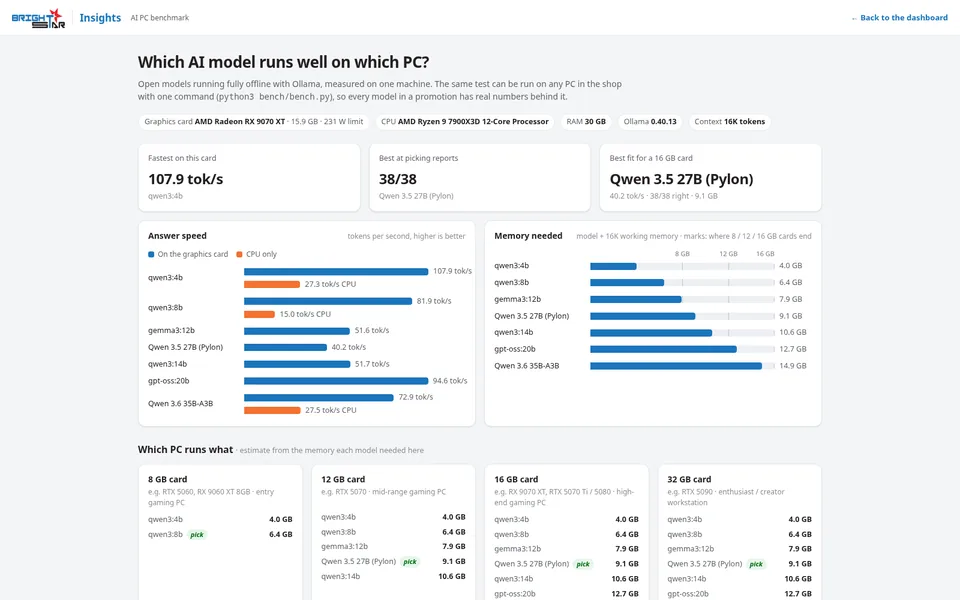
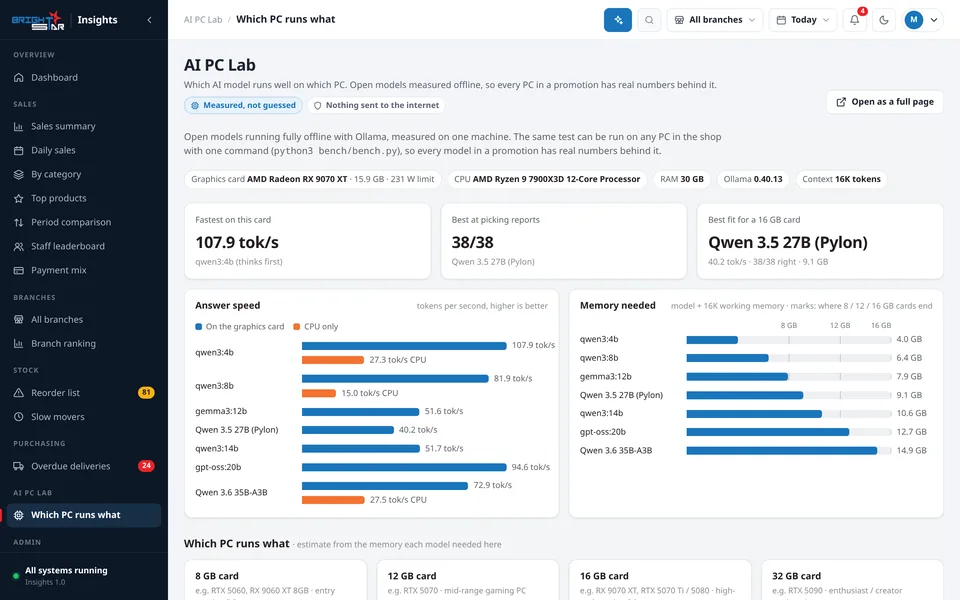
Brightstar page: new screenshots and text for the redesigned app
Screens now show the current UI (Ask Insights panel, role homes, Branches,
report pages, Reorder list, Overdue deliveries, AI PC Lab, sign-in, dark
mode, phone). Features, stack (Odoo ERP) and FAQ updated to match; the
portfolio card captions follow.

Claude-Session: https://claude.ai/code/session_019hFk9tDYcQSH82D6WqA6Ft

diff --git a/retail/index.html b/retail/index.html
@@ -343,7 +343,7 @@ dialog#lb button{position:fixed;top:14px;right:14px;width:44px;height:44px;borde
   <div class="htext">
    <span class="eyebrow">Unofficial mock demo · AI for retail</span>
    <h1>Ask the shop’s numbers, <em>in plain words</em>.</h1>
-   <p class="lead">Brightstar Insights is a mock demo I built to show how an AI assistant could work for a multi-branch IT retailer like Brightstar Computer. Owners, branch managers and buyers ask about sales, stock and purchasing in English or Malay, and get a clear answer in about a second, with the AI running on in-house hardware.</p>
+   <p class="lead">Brightstar Insights is a mock demo I built to show how an AI assistant could work for a multi-branch IT retailer like Brightstar Computer. Owners, branch managers and buyers each get their own dashboard, report pages and work lists, and can ask about sales, stock and purchasing in English or Malay. Answers come in about a second, from a real ERP, with the AI running on in-house hardware.</p>
    <div class="ctas">
     <a class="btn pri" href="https://archlinux.taila38d1a.ts.net:8443/retail/try"><svg class="ico" style="fill:currentColor;stroke:none"><use href="#i-play"/></svg>Try the live demo</a>
     <a class="btn" href="https://archlinux.taila38d1a.ts.net:8443/retail/login">Open the full app as a guest<svg class="ico"><use href="#i-arrow"/></svg></a>
@@ -359,10 +359,10 @@ dialog#lb button{position:fixed;top:14px;right:14px;width:44px;height:44px;borde
   </div>
   <div class="stage">
    <div class="frame"><div class="bar"><i></i><i></i><i></i><b>Brightstar Insights · mock data</b></div>
-    <img src="../assets/img/ri-dashboard.webp" width="1600" height="1000" alt="Brightstar Insights dashboard: today’s sales against the same time yesterday, a 30-day sales chart, top branches, low stock and late deliveries">
+    <img src="../assets/img/ri-dashboard.webp" width="1600" height="1000" alt="Brightstar Insights dashboard: a sidebar by job, quick links to branches, the reorder list, overdue deliveries and the AI PC Lab, an ask bar, today’s sales tiles, a 30-day chart and branches today">
    </div>
-   <div class="float"><img src="../assets/img/ri-phone.webp" width="780" height="1688" alt="A question answered on a phone" loading="lazy"></div>
-   <img class="phone-hero" src="../assets/img/ri-phone.webp" width="780" height="1688" alt="Brightstar Insights answering a question on a phone" loading="lazy">
+   <div class="float"><img src="../assets/img/ri-phone.webp" width="780" height="1688" alt="A question in Malay answered on a phone" loading="lazy"></div>
+   <img class="phone-hero" src="../assets/img/ri-phone.webp" width="780" height="1688" alt="Brightstar Insights answering a question in Malay on a phone" loading="lazy">
   </div>
  </div>
 </section>
@@ -380,23 +380,26 @@ dialog#lb button{position:fixed;top:14px;right:14px;width:44px;height:44px;borde
 
 <section id="features" class="alt">
  <div class="wrap">
-  <div class="shead rv"><span class="eyebrow">What it does</span><h2>One place for the shop’s numbers.</h2><p class="lead">Built the way a shop would use it: a dashboard first, questions when you need them, and a daily summary that arrives by itself.</p></div>
+  <div class="shead rv"><span class="eyebrow">What it does</span><h2>One place for the shop’s numbers.</h2><p class="lead">Built the way a shop would use it: a home page and work lists for each job, report pages for the detail, the AI one shortcut away, and a daily summary that arrives by itself.</p></div>
   <div class="card feat wide rv">
     <div style="display:grid;gap:14px">
      <span class="tag"><svg class="ico"><use href="#i-chat"/></svg></span>
-     <h3 style="font:600 28px/1.2 var(--serif)">Ask, and see how it was answered</h3>
-     <p>Type a question in English or Malay. Each answer shows which report was used, a one-line summary, a chart and the full table.</p>
-     <ul><li>About a second per answer on a gaming graphics card</li><li>Questions outside sales, stock and purchasing are politely refused</li><li>Download any answer as CSV or a report page</li></ul>
+     <h3 style="font:600 28px/1.2 var(--serif)">Ask Insights, from any page</h3>
+     <p>Open the side panel from the top bar or with Ctrl+J and type in English or Malay. Each answer shows which tested report was used, a one-line summary and a chart, and can open the full report with the same filters.</p>
+     <ul><li>About a second per answer on a gaming graphics card</li><li>Questions outside sales, stock and purchasing are politely refused</li><li>“How it was answered” shows the report and the query behind it</li></ul>
     </div>
-    <div class="frame"><img src="../assets/img/ri-answer-960.webp" data-full="../assets/img/ri-answer.webp" width="960" height="600" alt="An answer card: the question, the report used, a summary line and a bar chart by branch" loading="lazy"></div>
+    <div class="frame"><img src="../assets/img/ri-answer-960.webp" data-full="../assets/img/ri-answer.webp" width="960" height="600" alt="The Ask Insights side panel open over the dashboard: which branch sold the most RTX cards last week, answered with the branch ranking report and a bar chart" loading="lazy"></div>
   </div>
   <div class="feats swipe-m">
-   <div class="card feat rv"><span class="badge b-info">Dashboard</span><h3>Today at a glance</h3><p>Sales so far today against the same time yesterday, this week against last week, a 30-day trend and the top branches.</p></div>
-   <div class="card feat rv"><span class="badge b-info">Dashboard</span><h3>Needs attention</h3><p>Items below their reorder level, late supplier deliveries and the money tied up in slow stock.</p></div>
+   <div class="card feat rv"><span class="badge b-info">Home</span><h3>A home page for each job</h3><p>Management, branch managers and purchasing each start on their own home: sales today against the same time yesterday, this week against last week, a 30-day trend and shortcuts with live counts.</p></div>
+   <div class="card feat rv"><span class="badge b-info">Reports</span><h3>11 report pages</h3><p>Filter by dates, branch, category or product, sort and search the table, and export to CSV or a printable page. The same fixed reports the AI uses.</p></div>
+   <div class="card feat rv"><span class="badge b-info">Branches</span><h3>Every shop side by side</h3><p>Revenue, change, margin and a 14-day trend per branch, with stock and late-delivery flags and a page of its own for each shop.</p></div>
+   <div class="card feat rv"><span class="badge b-info">Work lists</span><h3>Reorder and late deliveries</h3><p>Items below their reorder level grouped by branch, and overdue purchase orders grouped by supplier, sorted by the money waiting.</p></div>
+   <div class="card feat rv"><span class="badge b-info">Search</span><h3>Find anything with Ctrl+K</h3><p>Jump to a page, a branch or a product, repeat a recent question, and see low stock and late deliveries in the alerts bell.</p></div>
    <div class="card feat rv"><span class="badge b-good">Roles</span><h3>The right view for each person</h3><p>Management sees every branch. A branch manager only sees their own branch, even when asking in plain language. Purchasing gets a stock-first view.</p></div>
    <div class="card feat rv"><span class="badge b-good">Automation</span><h3>A daily report, no AI needed</h3><p>Every morning a summary of yesterday arrives on Telegram or WhatsApp, with the full report attached. Approved people can also ask questions from their phone.</p></div>
    <div class="card feat rv"><span class="badge b-bad">Control</span><h3>Every request on record</h3><p>Sign-in, account lock-out after repeated wrong passwords, and an audit log of who asked what and which report answered.</p></div>
-   <div class="card feat rv"><span class="badge b-info">Hardware</span><h3>Which AI runs on which PC</h3><p>A benchmark page that measures open AI models on a given machine: speed, memory and how often each answers correctly.</p></div>
+   <div class="card feat rv"><span class="badge b-info">AI PC Lab</span><h3>Which AI runs on which PC</h3><p>Open AI models measured on real hardware for speed, memory and accuracy, with a guide to what fits an 8, 12, 16 or 32 GB graphics card.</p></div>
   </div>
  </div>
 </section>
@@ -405,26 +408,32 @@ dialog#lb button{position:fixed;top:14px;right:14px;width:44px;height:44px;borde
  <div class="wrap">
   <div class="shead rv"><span class="eyebrow">See it</span><h2>The real screens.</h2><p class="lead">From my working copy, with invented data. Click a picture to enlarge it.</p></div>
   <div class="tabs" role="tablist" aria-label="Screens">
-   <button class="tab" role="tab" aria-selected="true" aria-controls="s1" id="t1">Ask a question</button>
+   <button class="tab" role="tab" aria-selected="true" aria-controls="s1" id="t1">Ask</button>
    <button class="tab" role="tab" aria-selected="false" aria-controls="s2" id="t2">Dashboard</button>
-   <button class="tab" role="tab" aria-selected="false" aria-controls="s3" id="t3">Branch manager</button>
-   <button class="tab" role="tab" aria-selected="false" aria-controls="s4" id="t4">Week on week</button>
-   <button class="tab" role="tab" aria-selected="false" aria-controls="s5" id="t5">Model benchmark</button>
-   <button class="tab" role="tab" aria-selected="false" aria-controls="s6" id="t6">Sign-in</button>
-   <button class="tab" role="tab" aria-selected="false" aria-controls="s7" id="t7">Dark mode</button>
+   <button class="tab" role="tab" aria-selected="false" aria-controls="s3" id="t3">Branches</button>
+   <button class="tab" role="tab" aria-selected="false" aria-controls="s4" id="t4">Reports</button>
+   <button class="tab" role="tab" aria-selected="false" aria-controls="s5" id="t5">Reorder</button>
+   <button class="tab" role="tab" aria-selected="false" aria-controls="s6" id="t6">Late orders</button>
+   <button class="tab" role="tab" aria-selected="false" aria-controls="s7" id="t7">Manager</button>
+   <button class="tab" role="tab" aria-selected="false" aria-controls="s8" id="t8">AI PC Lab</button>
+   <button class="tab" role="tab" aria-selected="false" aria-controls="s9" id="t9">Sign-in</button>
+   <button class="tab" role="tab" aria-selected="false" aria-controls="s10" id="t10">Dark mode</button>
   </div>
-  <div class="shot" role="tabpanel" id="s1" aria-labelledby="t1"><div class="frame"><img src="../assets/img/ri-answer-960.webp" data-full="../assets/img/ri-answer.webp" width="960" height="600" alt="Answer to which branch sold the most RTX cards last week, with the report used and a chart" loading="lazy"></div><div class="cap"><h3>A question, answered</h3><p>A summary line taken from the numbers, then the chart and table.</p></div></div>
-  <div class="shot" role="tabpanel" id="s2" aria-labelledby="t2" hidden><div class="frame"><img src="../assets/img/ri-dashboard-960.webp" data-full="../assets/img/ri-dashboard.webp" width="960" height="600" alt="Dashboard with today’s sales, a 30-day chart, top branches, low stock and late deliveries" loading="lazy"></div><div class="cap"><h3>Today at a glance</h3><p>What management sees first, with no AI involved.</p></div></div>
-  <div class="shot" role="tabpanel" id="s3" aria-labelledby="t3" hidden><div class="frame"><img src="../assets/img/ri-branch-960.webp" data-full="../assets/img/ri-branch.webp" width="960" height="600" alt="Branch manager’s dashboard limited to one branch" loading="lazy"></div><div class="cap"><h3>Only your branch</h3><p>A branch manager’s view: every number limited to their own shop.</p></div></div>
-  <div class="shot" role="tabpanel" id="s4" aria-labelledby="t4" hidden><div class="frame"><img src="../assets/img/ri-summary-960.webp" data-full="../assets/img/ri-summary.webp" width="960" height="600" alt="This week against the same days last week for one branch" loading="lazy"></div><div class="cap"><h3>Fair comparisons</h3><p>This week is compared with the same days last week, up to the same time of day.</p></div></div>
-  <div class="shot" role="tabpanel" id="s5" aria-labelledby="t5" hidden><div class="frame"><img src="../assets/img/ri-bench-960.webp" data-full="../assets/img/ri-bench.webp" width="960" height="600" alt="Benchmark page comparing AI models by speed, memory and accuracy" loading="lazy"></div><div class="cap"><h3>Which model for which PC</h3><p>Seven open models measured on one graphics card, so it’s clear what each machine can run.</p></div></div>
-  <div class="shot" role="tabpanel" id="s6" aria-labelledby="t6" hidden><div class="frame"><img src="../assets/img/ri-login-960.webp" data-full="../assets/img/ri-login.webp" width="960" height="600" alt="Sign-in page" loading="lazy"></div><div class="cap"><h3>Signed in, by role</h3><p>Company accounts, with a lock-out after repeated wrong passwords.</p></div></div>
-  <div class="shot" role="tabpanel" id="s7" aria-labelledby="t7" hidden><div class="frame"><img src="../assets/img/ri-dark-960.webp" data-full="../assets/img/ri-dark.webp" width="960" height="600" alt="Dashboard in dark mode" loading="lazy"></div><div class="cap"><h3>Light or dark</h3><p>Follows the computer’s setting, or switch with one click.</p></div></div>
+  <div class="shot" role="tabpanel" id="s1" aria-labelledby="t1"><div class="frame"><img src="../assets/img/ri-answer-960.webp" data-full="../assets/img/ri-answer.webp" width="960" height="600" alt="The Ask Insights side panel over the dashboard: which branch sold the most RTX cards last week, answered with the branch ranking report" loading="lazy"></div><div class="cap"><h3>Ask from any page</h3><p>The side panel answers in about a second and says which tested report it used.</p></div></div>
+  <div class="shot" role="tabpanel" id="s2" aria-labelledby="t2" hidden><div class="frame"><img src="../assets/img/ri-dashboard-960.webp" data-full="../assets/img/ri-dashboard.webp" width="960" height="600" alt="Management dashboard: quick links, an ask bar, today’s sales tiles, a 30-day chart and branches today" loading="lazy"></div><div class="cap"><h3>Today at a glance</h3><p>Management’s home page, with no AI involved.</p></div></div>
+  <div class="shot" role="tabpanel" id="s3" aria-labelledby="t3" hidden><div class="frame"><img src="../assets/img/ri-branches-960.webp" data-full="../assets/img/ri-branches.webp" width="960" height="600" alt="All branches as cards with revenue, change, margin, a 14-day trend and stock and delivery flags" loading="lazy"></div><div class="cap"><h3>Every shop side by side</h3><p>Sort by revenue, change or code, then open any branch.</p></div></div>
+  <div class="shot" role="tabpanel" id="s4" aria-labelledby="t4" hidden><div class="frame"><img src="../assets/img/ri-report-960.webp" data-full="../assets/img/ri-report.webp" width="960" height="600" alt="Top products report page with filters, summary tiles, a chart and the table" loading="lazy"></div><div class="cap"><h3>A full report page</h3><p>Filters, a summary line, a chart and the table, with CSV or printable export.</p></div></div>
+  <div class="shot" role="tabpanel" id="s5" aria-labelledby="t5" hidden><div class="frame"><img src="../assets/img/ri-reorder-960.webp" data-full="../assets/img/ri-reorder.webp" width="960" height="600" alt="Reorder list grouped by branch: items out of stock or below their reorder level" loading="lazy"></div><div class="cap"><h3>Reorder list</h3><p>Out of stock and running low, grouped by branch, with what’s already on order.</p></div></div>
+  <div class="shot" role="tabpanel" id="s6" aria-labelledby="t6" hidden><div class="frame"><img src="../assets/img/ri-late-960.webp" data-full="../assets/img/ri-late.webp" width="960" height="600" alt="Overdue deliveries grouped by supplier, with days late and the money still to come" loading="lazy"></div><div class="cap"><h3>Overdue deliveries</h3><p>Late purchase orders grouped by supplier, biggest money first.</p></div></div>
+  <div class="shot" role="tabpanel" id="s7" aria-labelledby="t7" hidden><div class="frame"><img src="../assets/img/ri-branch-960.webp" data-full="../assets/img/ri-branch.webp" width="960" height="600" alt="Branch manager’s home limited to one branch" loading="lazy"></div><div class="cap"><h3>Only your branch</h3><p>A branch manager’s home: every number limited to their own shop.</p></div></div>
+  <div class="shot" role="tabpanel" id="s8" aria-labelledby="t8" hidden><div class="frame"><img src="../assets/img/ri-bench-960.webp" data-full="../assets/img/ri-bench.webp" width="960" height="600" alt="AI PC Lab comparing open AI models by speed, memory and accuracy" loading="lazy"></div><div class="cap"><h3>Which model for which PC</h3><p>Open models measured on one graphics card, with a guide by card size.</p></div></div>
+  <div class="shot" role="tabpanel" id="s9" aria-labelledby="t9" hidden><div class="frame"><img src="../assets/img/ri-login-960.webp" data-full="../assets/img/ri-login.webp" width="960" height="600" alt="Sign-in page with a short pitch panel" loading="lazy"></div><div class="cap"><h3>Signed in, by role</h3><p>Company accounts, with a lock-out after repeated wrong passwords.</p></div></div>
+  <div class="shot" role="tabpanel" id="s10" aria-labelledby="t10" hidden><div class="frame"><img src="../assets/img/ri-dark-960.webp" data-full="../assets/img/ri-dark.webp" width="960" height="600" alt="Branches page in dark mode" loading="lazy"></div><div class="cap"><h3>Light or dark</h3><p>Follows the computer’s setting, or switch with one click.</p></div></div>
 
   <div class="shead rv" style="margin:72px 0 28px"><h3 style="font:600 26px var(--serif)">On the phone, too.</h3></div>
   <div class="phones swipe-m rv">
-   <figure><img src="../assets/img/ri-phone-home.webp" width="780" height="1688" alt="Ask screen on a phone" loading="lazy"><figcaption>Ask</figcaption></figure>
-   <figure><img src="../assets/img/ri-phone.webp" width="780" height="1688" alt="An answer on a phone" loading="lazy"><figcaption>Answer</figcaption></figure>
+   <figure><img src="../assets/img/ri-phone-home.webp" width="780" height="1688" alt="Home page on a phone with the bottom tab bar" loading="lazy"><figcaption>Home</figcaption></figure>
+   <figure><img src="../assets/img/ri-phone.webp" width="780" height="1688" alt="A Malay question answered in the Ask panel on a phone" loading="lazy"><figcaption>Ask, in Malay</figcaption></figure>
   </div>
  </div>
 </section>
@@ -454,7 +463,8 @@ dialog#lb button{position:fixed;top:14px;right:14px;width:44px;height:44px;borde
    </ul>
   </div>
   <div class="cos rv">
-   <div class="co"><span class="dot" style="background:#4169e1" aria-hidden="true"><svg><use href="#si-pg"/></svg></span><div><b>PostgreSQL ERP</b><small>The company’s sales, stock and purchasing, read-only</small></div></div>
+   <div class="co"><span class="dot" style="background:#714b67" aria-hidden="true"><svg class="ico"><use href="#i-db"/></svg></span><div><b>Odoo ERP</b><small>Sales, stock and purchasing, read through a read-only account</small></div></div>
+   <div class="co"><span class="dot" style="background:#4169e1" aria-hidden="true"><svg><use href="#si-pg"/></svg></span><div><b>PostgreSQL</b><small>The database under the ERP; the same fixed reports work on any PostgreSQL ERP</small></div></div>
    <div class="co"><span class="dot" style="background:#ea4b71" aria-hidden="true"><svg><use href="#si-n8n"/></svg></span><div><b>n8n</b><small>Scheduled reports and chat workflows</small></div></div>
    <div class="co"><span class="dots" aria-hidden="true"><span class="dot" style="background:#26a5e4"><svg><use href="#si-tg"/></svg></span><span class="dot" style="background:#25d366"><svg><use href="#si-wa"/></svg></span></span><div><b>Telegram and WhatsApp</b><small>Daily summary and questions from the phone</small></div></div>
    <div class="co"><span class="dot" style="background:#1b75bc" aria-hidden="true"><svg class="ico"><use href="#i-server"/></svg></span><div><b>In-house hardware</b><small>Open AI models on a GPU machine on site</small></div></div>
@@ -468,9 +478,10 @@ dialog#lb button{position:fixed;top:14px;right:14px;width:44px;height:44px;borde
   <div class="faq rv">
    <details><summary>Is this made by or for Brightstar?<svg class="ico"><use href="#i-plus"/></svg></summary><p>No. It’s an unofficial mock demo I made on my own, using the Brightstar name and logo only to show the idea in context. It isn’t affiliated with or endorsed by Brightstar Computer, and every branch, person and number is made up.</p></details>
    <details><summary>Can I try it?<svg class="ico"><use href="#i-plus"/></svg></summary><p>Yes. <a href="https://archlinux.taila38d1a.ts.net:8443/retail/try">Ask a quick question in the live demo</a>, or <a href="https://archlinux.taila38d1a.ts.net:8443/retail/login">open the full app as a guest</a>: one click, no sign-up, 24 hours, made-up shop data. It runs on my own PC with a local AI model, so it’s live while that PC is on, guests have a question limit, and an answer may wait a moment while staff questions run.</p></details>
+   <details><summary>Is the ERP real?<svg class="ico"><use href="#i-plus"/></svg></summary><p>The software is: the demo reads a real Odoo ERP running next to it, filled with a made-up shop’s branches, products, sales and purchase orders. Report pages link straight to the matching Odoo records.</p></details>
    <details><summary>Does the AI make up numbers?<svg class="ico"><use href="#i-plus"/></svg></summary><p>No. Every number on screen comes from the ERP data, and the same question always gives the same numbers.</p></details>
    <details><summary>Why not use ChatGPT or another online AI?<svg class="ico"><use href="#i-plus"/></svg></summary><p>Because the shop’s sales and supplier data shouldn’t leave the company. A local model keeps everything on site.</p></details>
-   <details><summary>What hardware does it need?<svg class="ico"><use href="#i-plus"/></svg></summary><p>A PC with a gaming graphics card is enough, and a dedicated AI machine runs the larger models. The benchmark page shows which models fit which hardware.</p></details>
+   <details><summary>What hardware does it need?<svg class="ico"><use href="#i-plus"/></svg></summary><p>A PC with a gaming graphics card is enough, and a dedicated AI machine runs the larger models. The AI PC Lab page shows which models fit which hardware.</p></details>
    <details><summary>Can I see the source code?<svg class="ico"><use href="#i-plus"/></svg></summary><p>No, the code is private. I’m happy to show it running on a call.</p></details>
   </div>
  </div>

diff --git a/index.html b/index.html
@@ -983,7 +983,7 @@ dialog.sheet nav a:hover,dialog.sheet nav a:focus-visible{background:var(--hover
           <div><dt>Status</dt><dd><span class="badge good">Mock demo</span> Unofficial, not affiliated with Brightstar; made-up data</dd></div>
           <div><dt>Asks in</dt><dd>English and Malay; out-of-scope questions are refused</dd></div>
           <div><dt>Roles</dt><dd>Management, branch manager (own branch only) and purchasing</dd></div>
-          <div><dt>Also</dt><dd>Daily report to Telegram or WhatsApp, audit log, and a benchmark of which AI model runs on which machine</dd></div>
+          <div><dt>Also</dt><dd>Branch pages, reorder and late-delivery lists, daily report to Telegram or WhatsApp, audit log, and an AI PC Lab of which model runs on which machine</dd></div>
         </dl>
       </div>
       <div class="tp" role="tabpanel" id="ri-try" aria-labelledby="ri-t-try" hidden>
@@ -1018,30 +1018,30 @@ dialog.sheet nav a:hover,dialog.sheet nav a:focus-visible{background:var(--hover
           <button role="tab" aria-selected="true" aria-controls="ri-f-ask" id="ri-c-ask">Ask a question</button>
           <button role="tab" aria-selected="false" aria-controls="ri-f-dash" id="ri-c-dash">Dashboard</button>
           <button role="tab" aria-selected="false" aria-controls="ri-f-roles" id="ri-c-roles">Roles</button>
-          <button role="tab" aria-selected="false" aria-controls="ri-f-bench" id="ri-c-bench">Model benchmark</button>
+          <button role="tab" aria-selected="false" aria-controls="ri-f-bench" id="ri-c-bench">AI PC Lab</button>
         </div>
         <div class="feat" role="tabpanel" id="ri-f-ask" aria-labelledby="ri-c-ask">
-          <div><h4>A question, answered</h4><p>Each answer shows the report used, a summary taken from the numbers, a chart and the table.</p>
-            <ul><li>About a second per answer</li><li>English and Malay</li><li>Download as CSV or a report page</li></ul></div>
-          <div class="shots"><button data-zoom><div class="shot"><img loading="lazy" src="assets/img/ri-answer.webp" srcset="assets/img/ri-answer-960.webp 960w, assets/img/ri-answer.webp 1600w" sizes="(max-width:900px) 92vw, 720px" width="1600" height="1000" alt="An answer card with the report used, a summary line and a bar chart by branch"></div></button></div>
+          <div><h4>Ask from any page</h4><p>The Ask Insights side panel (Ctrl+J) shows the report used, a summary taken from the numbers and a chart, and opens the full report page.</p>
+            <ul><li>About a second per answer</li><li>English and Malay</li><li>11 report pages with filters and CSV export</li></ul></div>
+          <div class="shots"><button data-zoom><div class="shot"><img loading="lazy" src="assets/img/ri-answer.webp" srcset="assets/img/ri-answer-960.webp 960w, assets/img/ri-answer.webp 1600w" sizes="(max-width:900px) 92vw, 720px" width="1600" height="1000" alt="The Ask Insights side panel over the dashboard, answering with the branch ranking report and a bar chart"></div></button></div>
         </div>
         <div class="feat" role="tabpanel" id="ri-f-dash" aria-labelledby="ri-c-dash" hidden>
-          <div><h4>Today at a glance</h4><p>Sales so far today against the same time yesterday, this week against last week, a 30-day trend, top branches, low stock and late deliveries. No AI involved.</p></div>
-          <div class="shots"><button data-zoom><div class="shot"><img loading="lazy" src="assets/img/ri-dashboard.webp" srcset="assets/img/ri-dashboard-960.webp 960w, assets/img/ri-dashboard.webp 1600w" sizes="(max-width:900px) 92vw, 720px" width="1600" height="1000" alt="Dashboard with sales tiles, a 30-day chart, top branches, low stock and late deliveries"></div></button></div>
+          <div><h4>Today at a glance</h4><p>A home page for each role: sales against the same time yesterday, this week against last week, a 30-day trend, branches today, and shortcuts to the reorder list and late deliveries. No AI involved.</p></div>
+          <div class="shots"><button data-zoom><div class="shot"><img loading="lazy" src="assets/img/ri-dashboard.webp" srcset="assets/img/ri-dashboard-960.webp 960w, assets/img/ri-dashboard.webp 1600w" sizes="(max-width:900px) 92vw, 720px" width="1600" height="1000" alt="Dashboard with shortcuts, an ask bar, sales tiles, a 30-day chart and branches today"></div></button></div>
         </div>
         <div class="feat" role="tabpanel" id="ri-f-roles" aria-labelledby="ri-c-roles" hidden>
           <div><h4>Only what your role allows</h4><p>A branch manager sees only their own branch, even when asking in plain language. Checked on the server for every request.</p></div>
-          <div class="shots two swipe-m"><button data-zoom><div class="shot"><img loading="lazy" src="assets/img/ri-branch.webp" srcset="assets/img/ri-branch-960.webp 960w, assets/img/ri-branch.webp 1600w" sizes="(max-width:600px) 84vw, (max-width:900px) 46vw, 340px" width="1600" height="1000" alt="Branch manager’s dashboard limited to one branch"></div></button><button data-zoom><div class="shot"><img loading="lazy" src="assets/img/ri-login.webp" srcset="assets/img/ri-login-960.webp 960w, assets/img/ri-login.webp 1600w" sizes="(max-width:600px) 84vw, (max-width:900px) 46vw, 340px" width="1600" height="1000" alt="Sign-in page"></div></button></div>
+          <div class="shots two swipe-m"><button data-zoom><div class="shot"><img loading="lazy" src="assets/img/ri-branch.webp" srcset="assets/img/ri-branch-960.webp 960w, assets/img/ri-branch.webp 1600w" sizes="(max-width:600px) 84vw, (max-width:900px) 46vw, 340px" width="1600" height="1000" alt="Branch manager’s home page limited to one branch"></div></button><button data-zoom><div class="shot"><img loading="lazy" src="assets/img/ri-login.webp" srcset="assets/img/ri-login-960.webp 960w, assets/img/ri-login.webp 1600w" sizes="(max-width:600px) 84vw, (max-width:900px) 46vw, 340px" width="1600" height="1000" alt="Sign-in page"></div></button></div>
         </div>
         <div class="feat" role="tabpanel" id="ri-f-bench" aria-labelledby="ri-c-bench" hidden>
-          <div><h4>Which AI runs on which PC</h4><p>Seven open models measured on one graphics card: speed, memory needed and how often each answers correctly.</p></div>
-          <div class="shots"><button data-zoom><div class="shot"><img loading="lazy" src="assets/img/ri-bench.webp" srcset="assets/img/ri-bench-960.webp 960w, assets/img/ri-bench.webp 1600w" sizes="(max-width:900px) 92vw, 720px" width="1600" height="1000" alt="Benchmark page comparing AI models by speed, memory and accuracy"></div></button></div>
+          <div><h4>Which AI runs on which PC</h4><p>The AI PC Lab: open models measured on one graphics card for speed, memory and accuracy, with a guide to what fits each card size.</p></div>
+          <div class="shots"><button data-zoom><div class="shot"><img loading="lazy" src="assets/img/ri-bench.webp" srcset="assets/img/ri-bench-960.webp 960w, assets/img/ri-bench.webp 1600w" sizes="(max-width:900px) 92vw, 720px" width="1600" height="1000" alt="AI PC Lab comparing open AI models by speed, memory and accuracy"></div></button></div>
         </div>
         <p class="note"><svg><use href="#i-info"/></svg> Unofficial mock demo, not affiliated with or endorsed by Brightstar Computer. Every branch, person and number is invented.</p>
       </div>
       <div class="tp" role="tabpanel" id="ri-stack" aria-labelledby="ri-t-stack" hidden>
         <ul class="logos plain">
-          <li><span><b>PostgreSQL ERP</b><small>Sales, stock and purchasing, read-only</small></span></li>
+          <li><span><b>Odoo ERP on PostgreSQL</b><small>Sales, stock and purchasing, read-only</small></span></li>
           <li><span><b>n8n</b><small>Scheduled reports and chat workflows</small></span></li>
           <li><span><b>Telegram and WhatsApp</b><small>Daily summary and questions from the phone</small></span></li>
           <li><span><b>In-house hardware</b><small>Open AI models on a GPU machine on site</small></span></li>
